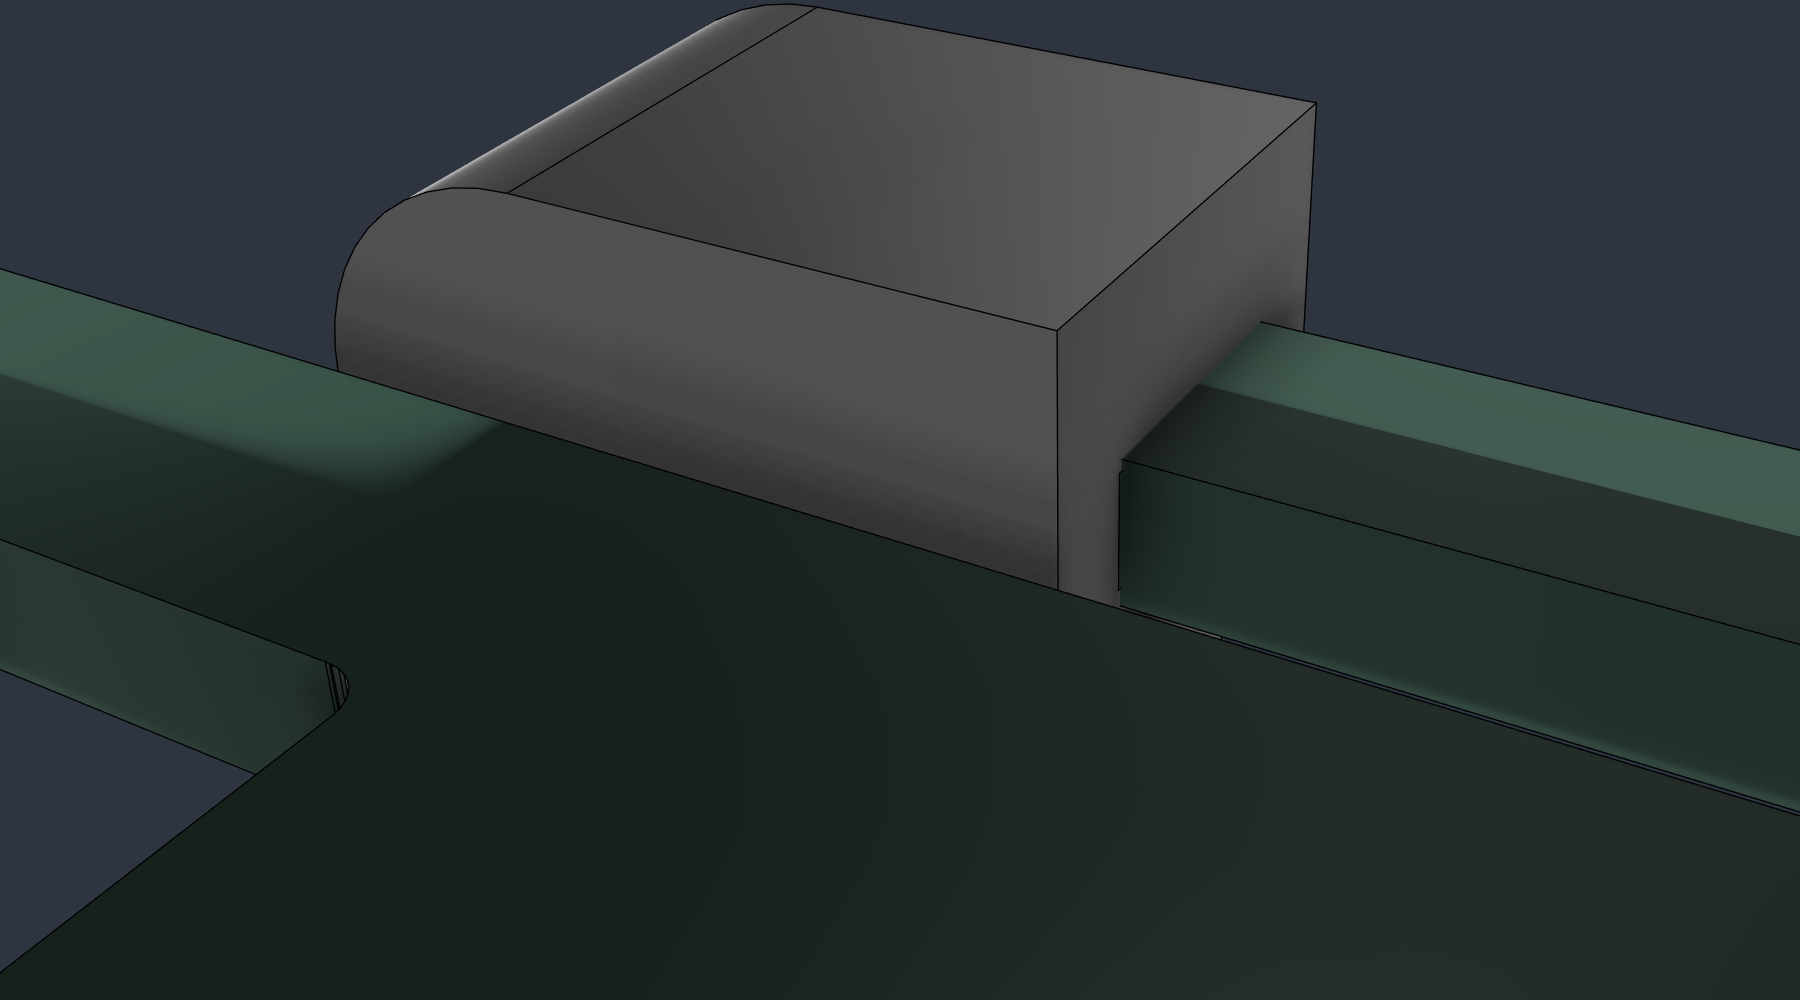
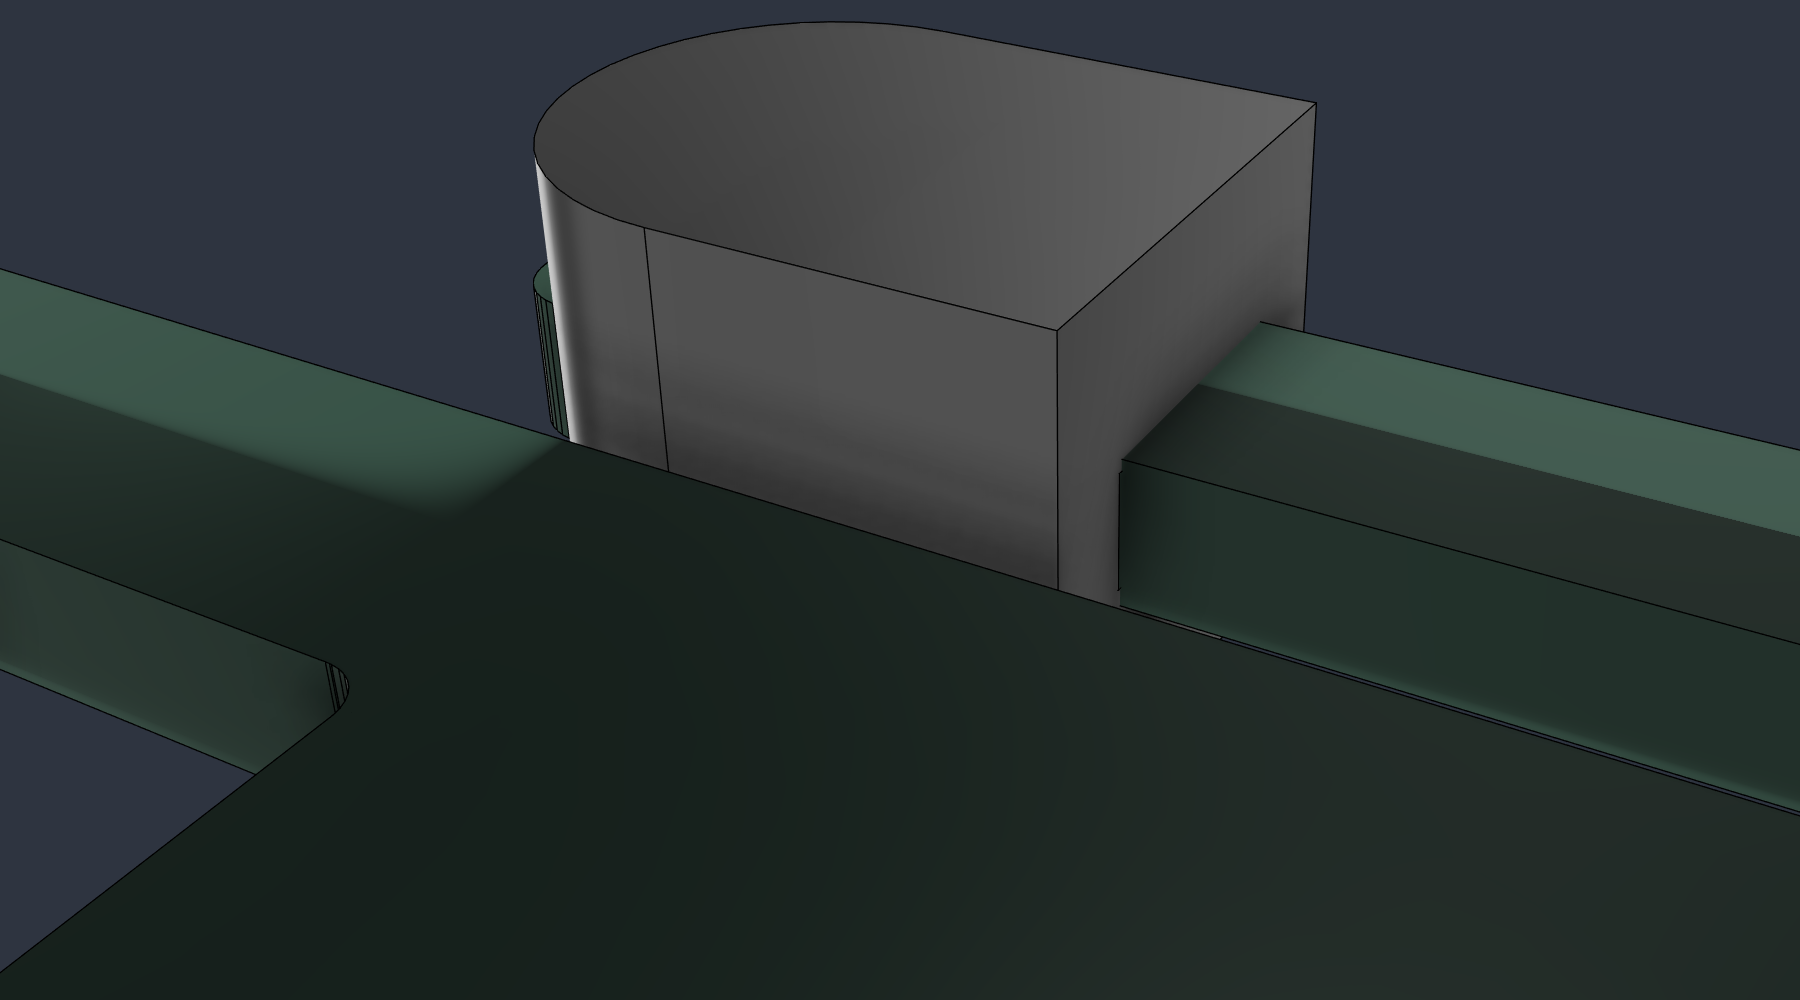
Case rev 3: gasket sock round end in plan

Changed region(s): [[0.1867, 0.0, 0.4978, 0.496]]

diff --git a/PROGRESS.md b/PROGRESS.md
@@ -59,7 +59,7 @@ Phase 15 (desktop packaging and auto-update) is done, and with it every phase in
   round the retainer bars and the encoder ledge have R0.8 corners and R1 rounds at the inner edge. Ring STEP and a DXF
   outline (`hardware/case/dxf/Dachshund70-Case-Rev3-Ring.dxf`) for laser cutting or ordering it as a 1.6 mm PCB.
 - Gasket socks (off the shelf) remodelled to the supplier drawing: 8 x 5 x 5, a full R2.5 round on the closed end
-  seen from the side, 6.5 x 2.8 x 1.2 slot from the square end, all other edges sharp. Squeezed about 0.2 top and
+  seen from above, 6.5 x 2.8 x 1.2 slot from the square end, all other edges sharp. Squeezed about 0.2 top and
   bottom between the top shell and the retainer bar in the model; the 1.6 plate stretches the 1.2 slot.
 - Heat-set inserts kept (Tiam reverted the PT-screw idea). Case screws flush with the bottom (Tiam, aesthetic):
   4 x M3x10 CSK front, 4 x M3x18 CSK back. Top shell A is the production shell (131 cm3
